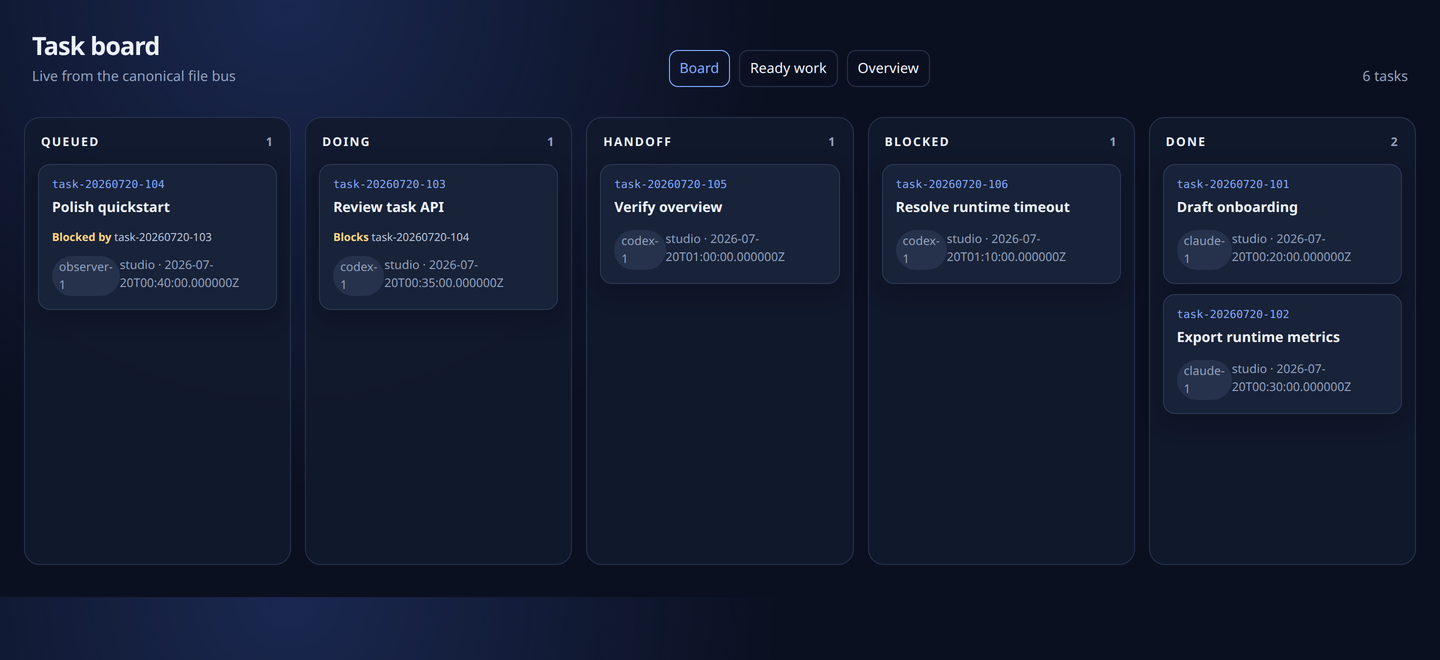
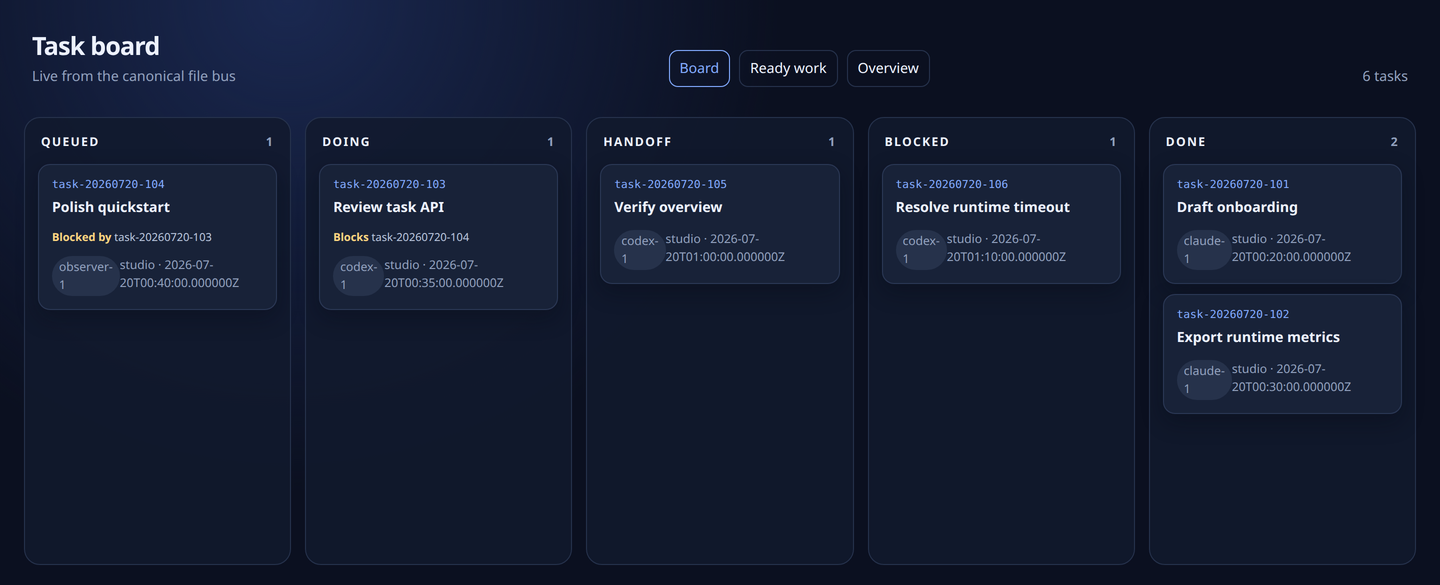
docs: crop the empty board below the last card
The captures ran the full viewport height, so both figures carried a band
of empty background — 75px under the board columns, 160px under the roster
— that read as a rendering fault rather than as an empty column.

diff --git a/docs/index.html b/docs/index.html
@@ -14,7 +14,7 @@
 <meta property="og:url" content="https://jklthinking.github.io/retinue/">
 <meta property="og:image" content="https://jklthinking.github.io/retinue/assets/board.png">
 <meta property="og:image:width" content="1440">
-<meta property="og:image:height" content="660">
+<meta property="og:image:height" content="585">
 <meta property="og:image:alt" content="The RETINUE task board: queued, doing, handoff, blocked and done columns, each card showing its holder and last receipt time.">
 <meta name="twitter:card" content="summary_large_image">
 <meta name="twitter:image" content="https://jklthinking.github.io/retinue/assets/board.png">
@@ -157,7 +157,7 @@ telemetry.</p>
 </div>
 
 <figure>
-  <img src="assets/board.png" width="1440" height="660"
+  <img src="assets/board.png" width="1440" height="585"
        alt="RETINUE task board with queued, doing, handoff, blocked and done columns; each card shows its holder and the time of its last receipt.">
   <figcaption>The board: five states, one holder per card, and the last receipt on every card.
     Blocking relationships are drawn on the cards themselves, so a stalled column explains itself.</figcaption>
@@ -178,7 +178,7 @@ telemetry.</p>
 </ul>
 
 <figure>
-  <img src="assets/overview.png" width="1440" height="700" loading="lazy"
+  <img src="assets/overview.png" width="1440" height="540" loading="lazy"
        alt="RETINUE agent overview listing three agents with runtime, model, node, recent activity and token use for today.">
   <figcaption>The roster: which agents are live, what runtime and model each one is on, and what
     today cost in tokens — read from local session files, not from a vendor API.</figcaption>
@@ -259,7 +259,7 @@ the same name. The project described on this page is specifically
 </ul>
 
 <figure>
-  <img src="assets/board.png" width="1440" height="660" loading="lazy"
+  <img src="assets/board.png" width="1440" height="585" loading="lazy"
        alt="众卿任务板：排队、进行中、交接、受阻、完成五列，每张卡显示持有人和最近一次回执时间。">
   <figcaption>任务板：五个状态，一张卡只有一个持有人，卡面直接写着最近一次回执。阻塞关系画在卡上，卡住的那一列自己会解释为什么卡住。</figcaption>
 </figure>
